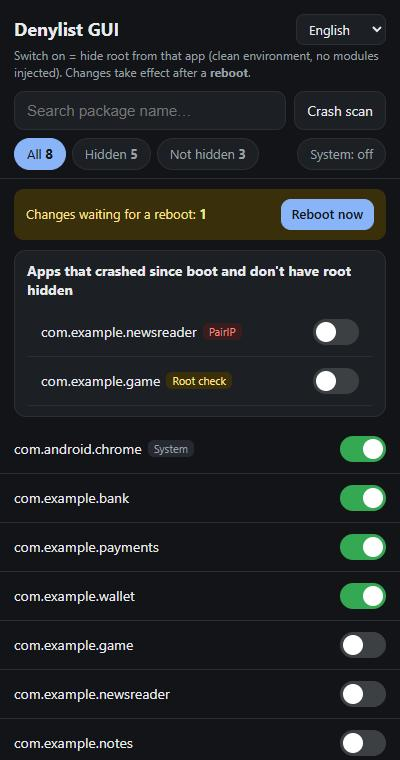
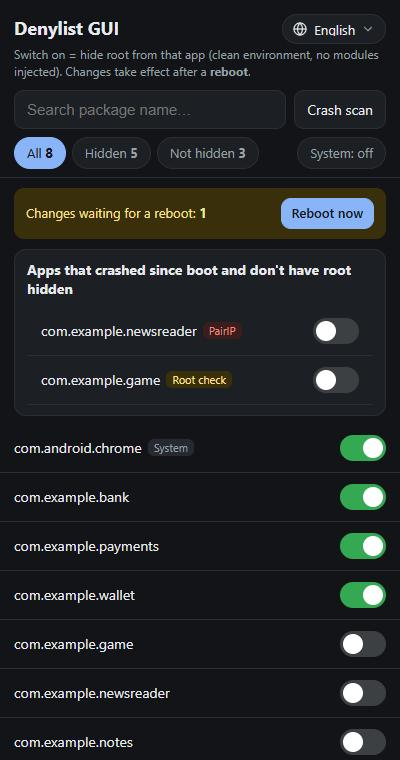
Replace native language select with a bottom sheet
Android WebView renders <select> as an old system dialog. The language
picker is now a pill button that opens a Material-style bottom sheet:
native + English names, current language highlighted with a check,
closes on tap outside, back gesture, swipe down or Esc, arrow-key
navigation, reduced-motion support. README screenshot updated.

diff --git a/module/webroot/index.html b/module/webroot/index.html
@@ -15,8 +15,39 @@
            border-bottom:1px solid var(--line); }
   .top { display:flex; align-items:center; gap:10px; margin-bottom:2px; }
   h1 { font-size:18px; margin:0; flex:1; }
-  select#lang { background:var(--card); color:var(--fg); border:1px solid var(--line); border-radius:8px;
-                padding:5px 8px; font:inherit; font-size:13px; outline:none; max-width:46%; }
+  /* language button + bottom sheet */
+  .lang-btn { display:inline-flex; align-items:center; gap:6px; max-width:52%; padding:6px 10px 6px 9px;
+              background:var(--card); color:var(--fg); border:1px solid var(--line); border-radius:999px;
+              font-size:13px; line-height:1; transition:background .15s, border-color .15s; }
+  .lang-btn:active { background:#262a31; }
+  .lang-btn:focus-visible, .lang-opt:focus-visible { outline:2px solid var(--acc); outline-offset:2px; }
+  .lang-btn svg { flex:none; width:16px; height:16px; }
+  .lang-btn .chev { width:14px; height:14px; color:var(--dim); transition:transform .2s; }
+  .lang-btn[aria-expanded="true"] .chev { transform:rotate(180deg); }
+  .lang-btn span { overflow:hidden; text-overflow:ellipsis; white-space:nowrap; }
+  .sheet { position:fixed; inset:0; z-index:50; visibility:hidden; }
+  .sheet.open { visibility:visible; }
+  .sheet .scrim { position:absolute; inset:0; background:rgba(0,0,0,.5); opacity:0; transition:opacity .22s; }
+  .sheet.open .scrim { opacity:1; }
+  .sheet .panel { position:absolute; left:0; right:0; bottom:0; max-height:78vh; display:flex; flex-direction:column;
+                  background:#1e2127; border-radius:24px 24px 0 0; box-shadow:0 -8px 32px rgba(0,0,0,.45);
+                  padding:8px 12px calc(14px + env(safe-area-inset-bottom));
+                  transform:translateY(100%); transition:transform .26s cubic-bezier(.2,.8,.2,1); }
+  .sheet.open .panel { transform:none; }
+  .sheet .handle { width:36px; height:4px; border-radius:2px; background:#4a4f57; margin:4px auto 12px; flex:none; }
+  .sheet h2 { margin:0 8px 8px; font-size:16px; font-weight:600; flex:none; }
+  .sheet .opts { overflow-y:auto; overscroll-behavior:contain; }
+  .lang-opt { display:flex; align-items:center; gap:12px; width:100%; padding:12px 14px; margin:2px 0;
+              background:none; border:0; border-radius:14px; color:var(--fg); text-align:left; }
+  .lang-opt:active { background:#2a2e35; }
+  .lang-opt .nm { flex:1; min-width:0; }
+  .lang-opt .nm b { display:block; font-weight:500; font-size:15px; }
+  .lang-opt .nm small { display:block; color:var(--dim); font-size:12px; margin-top:2px; }
+  .lang-opt .ck { width:22px; height:22px; flex:none; color:var(--acc); opacity:0; }
+  .lang-opt[aria-checked="true"] { background:rgba(138,180,248,.14); }
+  .lang-opt[aria-checked="true"] .nm b { color:var(--acc); }
+  .lang-opt[aria-checked="true"] .ck { opacity:1; }
+  @media (prefers-reduced-motion: reduce) { .sheet .panel, .sheet .scrim, .lang-btn .chev { transition:none; } }
   .sub { color:var(--dim); font-size:12px; }
   .bar { display:flex; gap:8px; margin-top:10px; }
   input[type=search] { flex:1; min-width:0; background:var(--card); color:var(--fg); border:1px solid var(--line);
@@ -66,7 +97,12 @@
 <header>
   <div class="top">
     <h1>Denylist GUI</h1>
-    <select id="lang"></select>
+    <button class="lang-btn" id="langBtn" type="button" aria-haspopup="dialog" aria-expanded="false" aria-controls="langSheet">
+      <svg viewBox="0 0 24 24" fill="none" stroke="currentColor" stroke-width="1.8" stroke-linecap="round" aria-hidden="true">
+        <circle cx="12" cy="12" r="9"/><path d="M3 12h18M12 3c2.5 2.6 3.8 5.6 3.8 9s-1.3 6.4-3.8 9c-2.5-2.6-3.8-5.6-3.8-9S9.5 5.6 12 3z"/></svg>
+      <span id="langName"></span>
+      <svg class="chev" viewBox="0 0 24 24" fill="none" stroke="currentColor" stroke-width="2" stroke-linecap="round" stroke-linejoin="round" aria-hidden="true"><path d="M6 9l6 6 6-6"/></svg>
+    </button>
   </div>
   <div class="sub" data-i18n-html="sub"></div>
   <div class="bar">
@@ -88,6 +124,15 @@
 
 <ul id="list"></ul>
 <div id="msg"></div>
+
+<div class="sheet" id="langSheet" role="dialog" aria-modal="true" aria-labelledby="langTitle">
+  <div class="scrim" data-close></div>
+  <div class="panel">
+    <div class="handle" data-close></div>
+    <h2 id="langTitle"></h2>
+    <div class="opts" id="langOpts" role="radiogroup" aria-labelledby="langTitle"></div>
+  </div>
+</div>
 
 <script>
 /* ---------- i18n ----------
@@ -212,7 +257,10 @@ function applyStatic() {
   document.querySelectorAll("[data-i18n]").forEach(el => el.textContent = t(el.dataset.i18n));
   document.querySelectorAll("[data-i18n-html]").forEach(el => el.innerHTML = t(el.dataset.i18nHtml)); // trusted dictionary text only
   document.querySelectorAll("[data-i18n-ph]").forEach(el => el.placeholder = t(el.dataset.i18nPh));
-  const sel = document.getElementById("lang"); sel.value = lang; sel.title = sel.ariaLabel = t("lang");
+  document.getElementById("langName").textContent = I18N[lang]._name;
+  document.getElementById("langBtn").setAttribute("aria-label", t("lang") + ": " + I18N[lang]._name);
+  document.getElementById("langTitle").textContent = t("lang");
+  document.querySelectorAll(".lang-opt").forEach(o => o.setAttribute("aria-checked", String(o.dataset.lang === lang)));
   document.getElementById("sysBtn").textContent = t(showSys ? "sysOn" : "sysOff");
   document.getElementById("pendingTxt").innerHTML = t("pending", { n: changed });
 }
@@ -362,9 +410,71 @@ async function scan() {
 }
 
 /* ---------- wiring ---------- */
-const sel = document.getElementById("lang");
-Object.keys(I18N).forEach(k => sel.add(new Option(I18N[k]._name, k)));
-sel.onchange = () => setLang(sel.value);
+/* language bottom sheet (replaces the native <select>, which Android WebView renders as an old system dialog) */
+const LANG_EN = { "zh-CN": "Chinese (Simplified)", "zh-TW": "Chinese (Traditional)", en: "English",
+                  ja: "Japanese", ko: "Korean", ru: "Russian", es: "Spanish" };
+const sheet = document.getElementById("langSheet"), langBtn = document.getElementById("langBtn");
+const opts = document.getElementById("langOpts"), panel = sheet.querySelector(".panel");
+const CHECK_SVG = '<svg class="ck" viewBox="0 0 24 24" fill="none" stroke="currentColor" stroke-width="2.4" stroke-linecap="round" stroke-linejoin="round" aria-hidden="true"><path d="M5 12.5l4.5 4.5L19 7.5"/></svg>';
+Object.keys(I18N).forEach(k => {
+  const b = document.createElement("button");
+  b.type = "button"; b.className = "lang-opt"; b.dataset.lang = k; b.lang = k; b.setAttribute("role", "radio");
+  const nm = document.createElement("span"); nm.className = "nm";
+  const main = document.createElement("b"); main.textContent = I18N[k]._name; nm.appendChild(main);
+  if (LANG_EN[k] && LANG_EN[k] !== I18N[k]._name) {
+    const sub = document.createElement("small"); sub.textContent = LANG_EN[k]; sub.lang = "en"; nm.appendChild(sub);
+  }
+  b.appendChild(nm); b.insertAdjacentHTML("beforeend", CHECK_SVG);
+  b.onclick = () => { setLang(k); closeSheet(); };
+  opts.appendChild(b);
+});
+
+let sheetHist = false;   // a history entry was pushed so the Android back gesture closes the sheet
+const isOpen = () => sheet.classList.contains("open");
+function openSheet() {
+  if (isOpen()) return;
+  sheet.classList.add("open"); langBtn.setAttribute("aria-expanded", "true");
+  document.body.style.overflow = "hidden";
+  try { history.pushState({ dgSheet: 1 }, ""); sheetHist = true; } catch (e) { sheetHist = false; }
+  setTimeout(() => (opts.querySelector('[aria-checked="true"]') || opts.firstElementChild).focus(), 60);
+}
+function closeSheet(fromPopstate) {
+  if (!isOpen()) return;
+  sheet.classList.remove("open"); langBtn.setAttribute("aria-expanded", "false");
+  document.body.style.overflow = "";
+  if (sheetHist && !fromPopstate) history.back();
+  sheetHist = false;
+  langBtn.focus({ preventScroll: true });
+}
+langBtn.onclick = openSheet;
+sheet.addEventListener("click", e => { if (e.target.closest("[data-close]")) closeSheet(); });
+window.addEventListener("popstate", () => closeSheet(true));
+document.addEventListener("keydown", e => {
+  if (!isOpen()) return;
+  if (e.key === "Escape") { e.preventDefault(); closeSheet(); }
+  else if (e.key === "ArrowDown" || e.key === "ArrowUp") {
+    const list = [...opts.children], i = list.indexOf(document.activeElement);
+    list[(i + (e.key === "ArrowDown" ? 1 : -1) + list.length) % list.length].focus();
+    e.preventDefault();
+  }
+});
+// swipe down to close (ignored while the list itself is scrolled)
+let dragY = null, dragDy = 0;
+panel.addEventListener("touchstart", e => {
+  if (opts.contains(e.target) && opts.scrollTop > 0) return;
+  dragY = e.touches[0].clientY; dragDy = 0; panel.style.transition = "none";
+}, { passive: true });
+panel.addEventListener("touchmove", e => {
+  if (dragY === null) return;
+  dragDy = Math.max(0, e.touches[0].clientY - dragY);
+  panel.style.transform = dragDy ? `translateY(${dragDy}px)` : "";
+}, { passive: true });
+panel.addEventListener("touchend", () => {
+  if (dragY === null) return;
+  panel.style.transition = ""; panel.style.transform = "";
+  if (dragDy > 80) closeSheet();
+  dragY = null;
+});
 
 document.getElementById("q").oninput = render;
 document.getElementById("scanBtn").onclick = scan;
